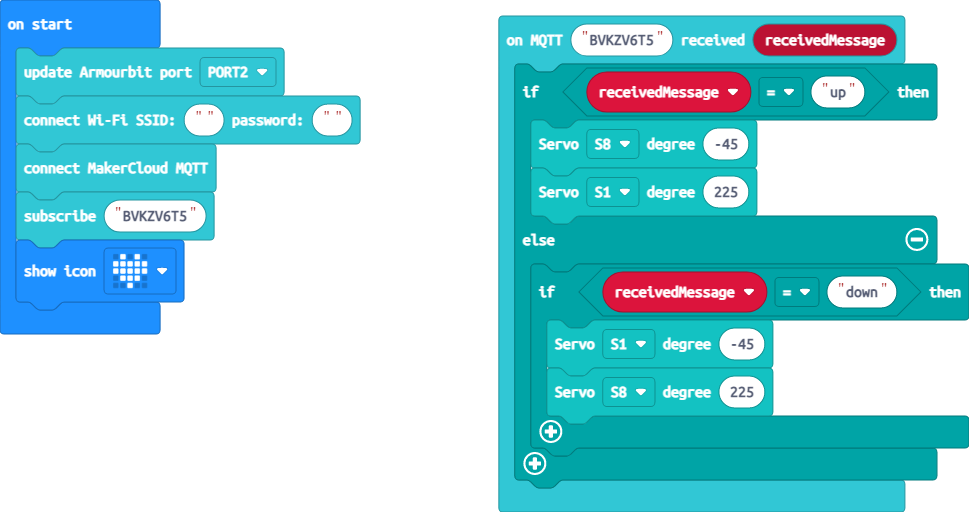
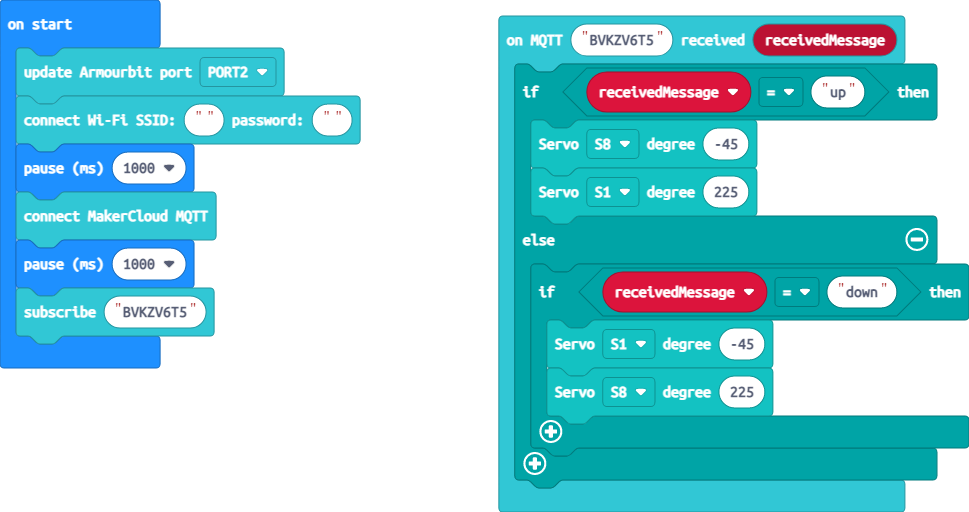
Update main.blocks, main.ts

Changed region(s): [[0.0, 0.2812, 0.2477, 0.7188]]

diff --git a/main.ts b/main.ts
@@ -11,6 +11,7 @@ MakerCloud_KOI.registerTopicMessageHandler("BVKZV6T5", function (receivedMessage
 })
 MakerCloud.configRxTxPwbrick(MakerCloud.SerialPorts.PORT2)
 MakerCloud.setupWifi("", "")
+basic.pause(1000)
 MakerCloud_KOI.connectMakerCloudMQTT()
+basic.pause(1000)
 MakerCloud_KOI.subscribeTopic("BVKZV6T5")
-basic.showIcon(IconNames.Heart)
